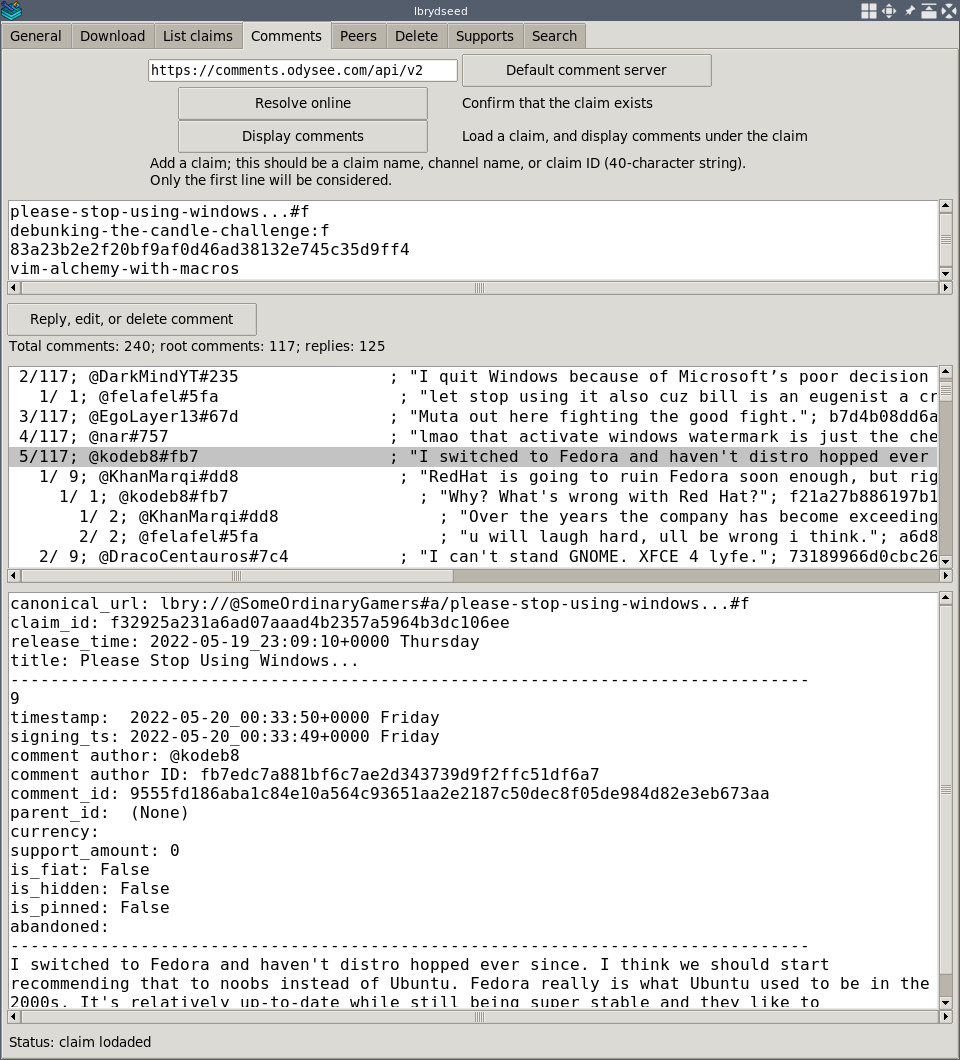
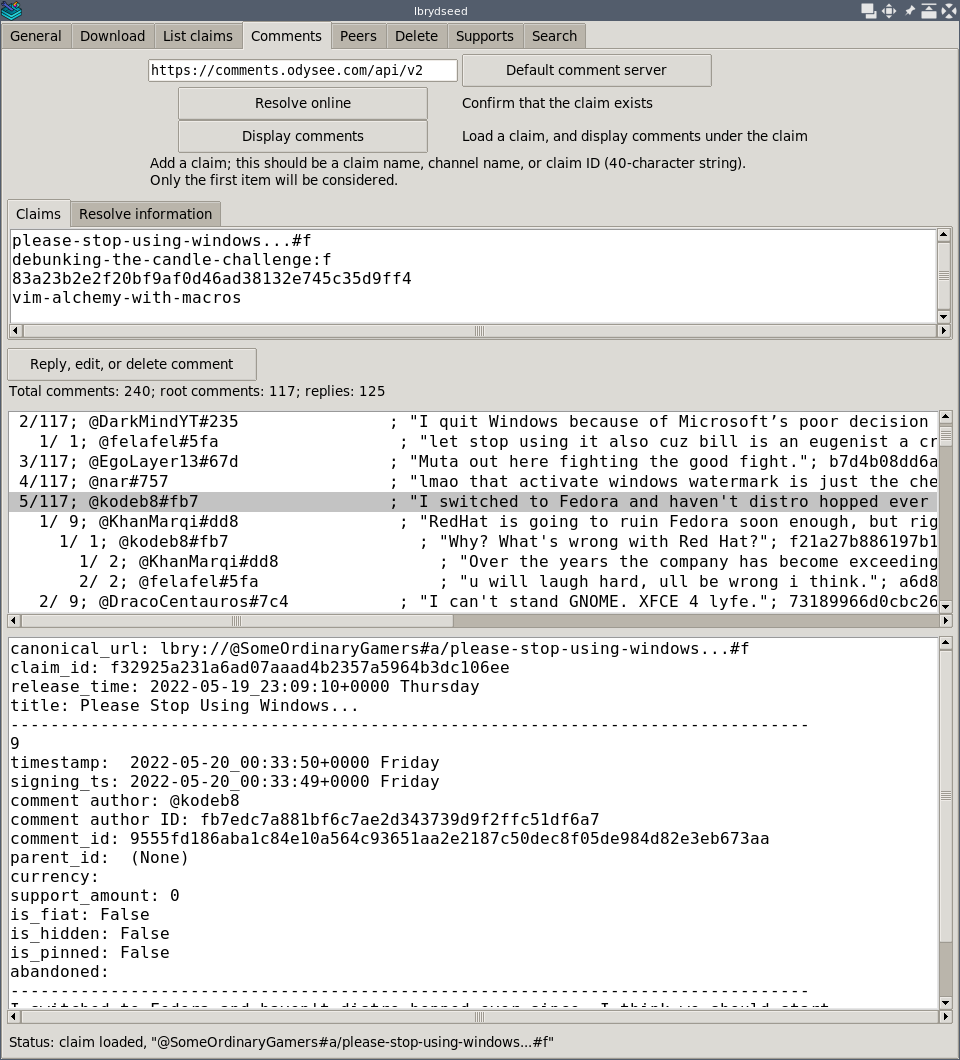
img: new images for documentation
Updated image for the README.md, with resolved information
in the textbox:
- `lbrydseed_ch-claims.png`

Updated images with new textbox:
- `g_lbrydseed_download_channels.png` (formerly `g_lbrydseed_download_channel.png`)
- `g_lbrydseed_download_claims.png` (formerly `g_lbrydseed_download_single.png`)
- `g_lbrydseed_delete_claims.png` (formerly `g_lbrydseed_delete_single.png`)
- `g_lbrydseed_cleanup_channels.png` (formerly `g_lbrydseed_cleanup_channel.png`)

Updated images with new notebook tab for the new textbox:
- `g_lbrydseed_comments.png`
- `g_lbrydseed_peers_claims.png`
- `g_lbrydseed_peers_multi_channels.png`
- `g_lbrydseed_supports_update.png` (formerly `g_lbrydseed_supports_add.png`)

Updated image with new resolve information for a single channel:
- `g_lbrydseed_list_ch_claims.png`
- `g_lbrydseed_peers_channel.png`

Updated image with seeding information
- `g_lbrydseed_seeding_ratio.png`

Changed region(s): [[0.0, 0.1557, 1.0, 0.9962], [0.9375, 0.8717, 1.0, 0.934]]

diff --git a/doc/usage.md b/doc/usage.md
@@ -15,14 +15,14 @@ Go back to the [_README_](../README.md).
 ## Downloading
 
 Enter the name of the channels, and a number of claims to download for each,
-then press `"Download channel claims"`.
+then press `"Download claims from channels"`.
 
-![lbrydseed_download_channel](../img/g_lbrydseed_download_channel.png)
+![lbrydseed_download_channels](../img/g_lbrydseed_download_channels.png)
 
 Enter the name or claim ID of various claims,
 and then press `"Download claims"`.
 
-![lbrydseed_download_single](../img/g_lbrydseed_download_single.png)
+![lbrydseed_download_claims](../img/g_lbrydseed_download_claims.png)
 
 [Go back to _Content_](#content)
 
@@ -109,12 +109,12 @@ and downloaded.
 
 Enter the name or claim ID of various claims, then press `"Delete claims"`.
 
-![lbrydseed_delete_single](../img/g_lbrydseed_delete_single.png)
+![lbrydseed_delete_claims](../img/g_lbrydseed_delete_claims.png)
 
 Enter the name of the channels, and a number of claims to keep for each,
 then press `"Clean up claims"`.
 
-![lbrydseed_cleanup_channel](../img/g_lbrydseed_cleanup_channel.png)
+![lbrydseed_cleanup_channels](../img/g_lbrydseed_cleanup_channels.png)
 
 [Go back to _Content_](#content)
 
@@ -128,7 +128,7 @@ Enter the name or claim ID of various claims (it can be any type of claim
 such as videos and channels), a number,
 and then press `"Add or remove support"`.
 
-![lbrydseed_supports_add](../img/g_lbrydseed_supports_add.png)
+![lbrydseed_supports_update](../img/g_lbrydseed_supports_update.png)
 
 [Go back to _Content_](#content)
 
